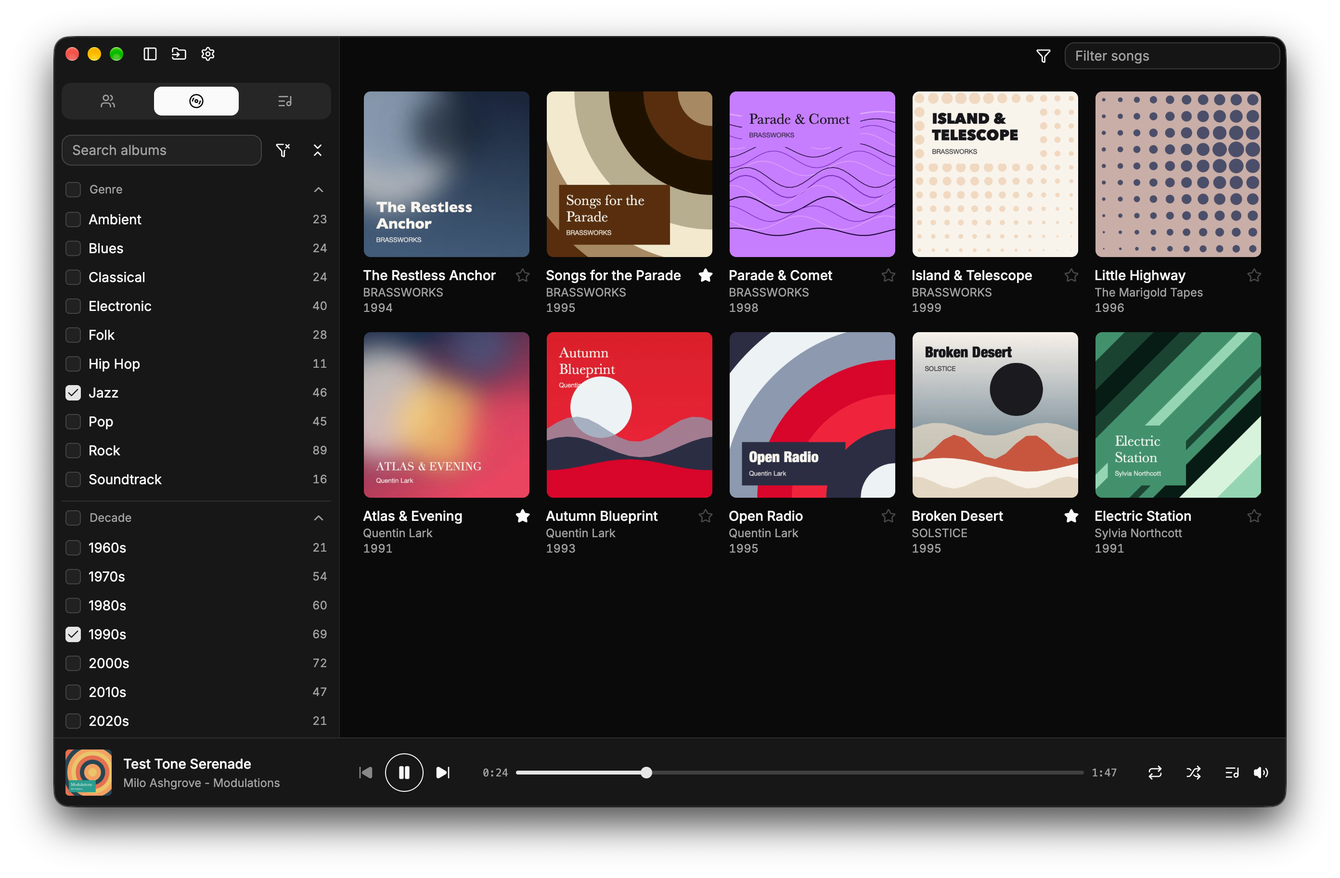
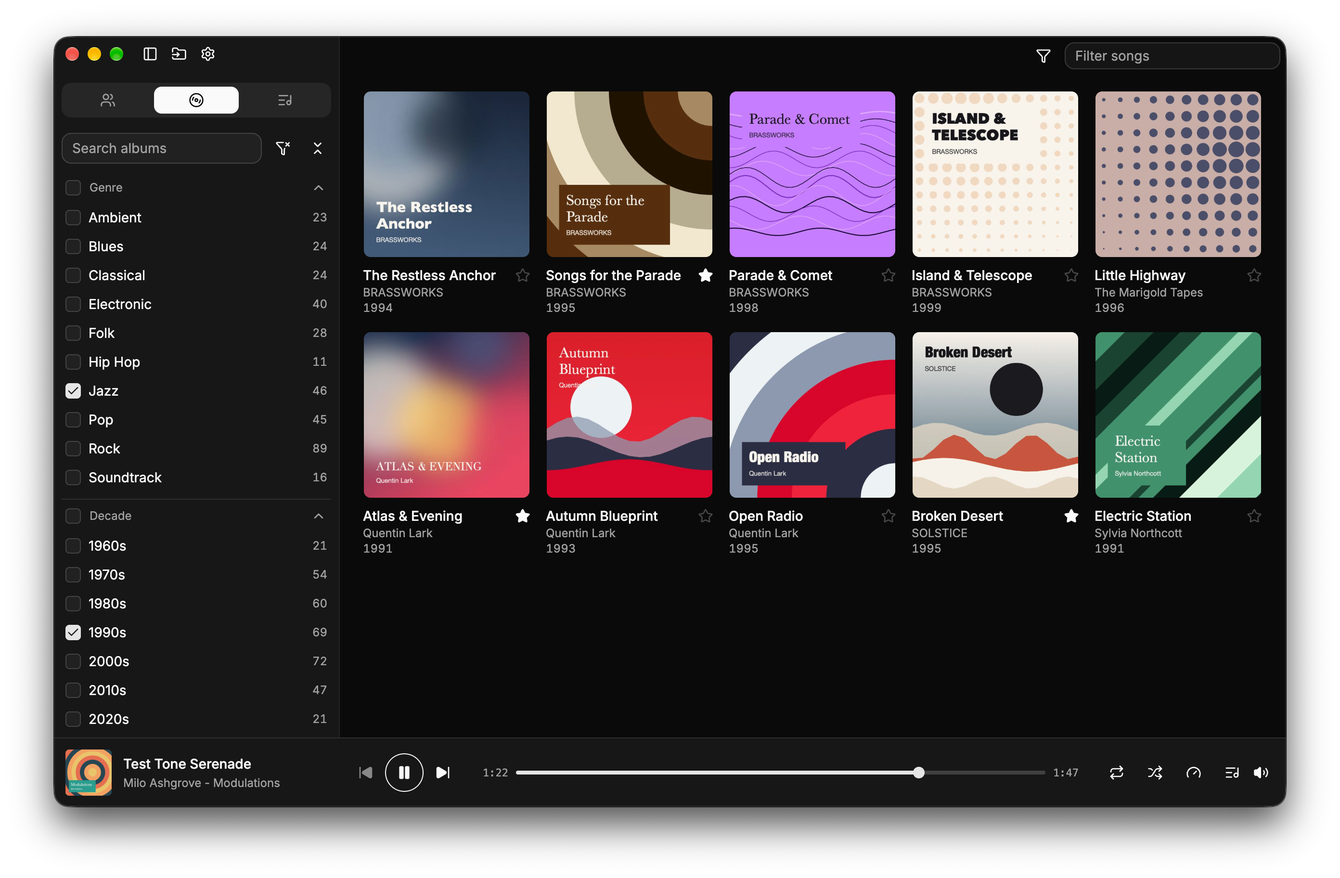
feat: 公式サイトの機能一覧を縦レイアウトにし、ヘッダーの hover をアプリに揃え、全シーンをダーク / ライトで撮り直す
- HomePage の機能一覧を「見出し、説明文、ダークとライトのスクリーンショットの横並び」の縦レイアウトにし、theme の項目を settings に統合
- global.css の glow-lamp を glow-ring に置き換え、ヘッダーの hover を枠線 + glow と角丸矩形の塗りにする
- 「Play your way」の本文と alt に再生速度を追加し、全 7 シーンをダーク / ライトの 14 枚で撮影 (player は速度の Popover を開いた構図)
- screenshots.manifest.json に player-light の crop を追加し、SCENES を <screen> と <screen>-light に拡張
- web の仕様書 (README / scope / pages / theme / top-page / screenshots) を更新

diff --git a/web/src/i18n/ja.ts b/web/src/i18n/ja.ts
@@ -52,19 +52,17 @@ export const ja: Dictionary = {
     "Details タブでタイトル、アーティスト、アルバム、ジャンル、年の入力欄を表示した曲情報ダイアログ",
   "home.feature.player.title": "好きなように再生する",
   "home.feature.player.body":
-    "再生キューに曲を並べ、シャッフルし、アルバムや 1 曲をリピートし、OS のメディア キーから操作できます。対応形式は mp3、flac、m4a / mp4、ogg / opus、wav、aiff、wma、ape です。",
+    "再生キューに曲を並べ、シャッフルし、アルバムや 1 曲をリピートし、音程を保ったまま再生をゆっくりにも速くにもできます。再生、一時停止、曲送りは OS のメディア キーからも行えます。対応形式は mp3、flac、m4a / mp4、ogg / opus、wav、aiff、wma、ape です。",
   "home.feature.player.alt":
-    "曲を再生中のプレーヤー バーと、次に再生する曲を並べたキューのポップオーバー",
-  "home.feature.theme.title": "ライトとダーク",
-  "home.feature.theme.body":
-    "ダークとライトのテーマを用意しています。OS の設定に追従させることも、好きなほうに固定することもできます。",
-  "home.feature.theme.alt":
-    "ライト テーマの Parade の Artists ビュー。Milo Ashgrove のアルバムを表示している",
-  "home.feature.language.title": "英語と日本語",
-  "home.feature.language.body":
-    "設定ページで English / 日本語 / System から言語を選べます。テーマも同じ設定ページで切り替えられます。",
-  "home.feature.language.alt":
-    "Theme を Dark、Language を English に設定した Settings ページ",
+    "曲を再生中のプレーヤー バーと、開いた再生速度のポップオーバー。速度のプリセット、スライダー、「ピッチを維持」のチェックが見える",
+  "home.feature.settings.title": "言語とテーマを選ぶ",
+  "home.feature.settings.body":
+    "設定ダイアログで English / 日本語 / System から言語を選べます。ダークとライトのテーマも同じ設定ダイアログで切り替えるか、OS の設定に追従させられます。",
+  "home.feature.settings.alt":
+    "Language を English にし、テーマを選んだ Settings ダイアログ",
+  "home.screenshot.dark": "ダーク",
+  "home.screenshot.light": "ライト",
+  "home.screenshot.alt": "{alt} ({theme} テーマ)",
   "home.cta.title": "Parade を入手する",
   "home.cta.body":
     "macOS / Windows / Linux 向けに、無料でオープンソースで提供しています。",

diff --git a/web/src/i18n/en.ts b/web/src/i18n/en.ts
@@ -54,19 +54,17 @@ export const en = {
     "Song info dialog with the Details tab showing the editable title, artist, album, genre and year fields",
   "home.feature.player.title": "Play your way",
   "home.feature.player.body":
-    "Queue songs up, shuffle them, repeat an album or a single song, and control playback from the media keys of your OS. Parade plays mp3, flac, m4a / mp4, ogg / opus, wav, aiff, wma and ape.",
+    "Queue songs up, shuffle them, repeat an album or a single song, and slow down or speed up playback while the pitch stays put. Play, pause and skip from the media keys of your OS. Parade plays mp3, flac, m4a / mp4, ogg / opus, wav, aiff, wma and ape.",
   "home.feature.player.alt":
-    "Player bar with a song playing and the queue popover listing the upcoming songs",
-  "home.feature.theme.title": "Light and dark",
-  "home.feature.theme.body":
-    "A dark and a light theme, following your OS setting or fixed to the one you prefer.",
-  "home.feature.theme.alt":
-    "Artists view of Parade in the light theme, showing the albums of Milo Ashgrove",
-  "home.feature.language.title": "English and Japanese",
-  "home.feature.language.body":
-    "Choose English, Japanese or your system language on the settings page. The theme is switched there as well.",
-  "home.feature.language.alt":
-    "Settings page with the theme set to Dark and the language set to English",
+    "Player bar with a song playing and the playback speed popover open, showing the speed presets, the slider and the Keep pitch checkbox",
+  "home.feature.settings.title": "Choose your language and theme",
+  "home.feature.settings.body":
+    "Pick English, Japanese or your system language in the settings dialog, and switch between the dark and light themes there as well, or follow your OS.",
+  "home.feature.settings.alt":
+    "Settings dialog with the language set to English and the theme selected",
+  "home.screenshot.dark": "Dark",
+  "home.screenshot.light": "Light",
+  "home.screenshot.alt": "{alt} ({theme} theme)",
   "home.cta.title": "Get Parade",
   "home.cta.body": "Free and open source, for macOS, Windows and Linux.",
   "home.cta.button": "Go to downloads",

diff --git a/web/src/styles/global.css b/web/src/styles/global.css
@@ -57,23 +57,23 @@
 }
 
 /*
- * Lamp glow: the hovered element lights up like a lamp, a mid bloom plus a
- * wide faint halo. Same values as the lamp glow the app's icon buttons had
- * up to v1.4.0 (the app since moved to a tint or a circle border; the site
- * keeps the lamp). Apply as
- * `hover:glow-lamp` together with `transition-glow`.
+ * Ring glow: a transparent border takes the foreground colour and glows.
+ * Same values as the hover of the app's IconButton `ring` variant (the
+ * player bar buttons). The element keeps `border border-transparent` so
+ * its size does not change on hover. Apply as `hover:glow-ring` together
+ * with `transition-glow` (docs/specs/web/architecture/theme.md).
  */
-@utility glow-lamp {
-  filter: drop-shadow(0 0 5px var(--foreground))
-    drop-shadow(
-      0 0 12px color-mix(in oklch, var(--foreground) 60%, transparent)
-    );
+@utility glow-ring {
+  border-color: var(--foreground);
+  box-shadow: 0 0 5px 1px
+    color-mix(in oklch, var(--foreground) 60%, transparent);
 }
 
 /*
  * Border glow: the border of an outlined element lights up. Same values as
- * the app's CircleIconButton. Apply as `hover:glow-border` together with
- * `transition-glow`.
+ * the app's CircleIconButton, whose border is always visible (hence the
+ * inner 1px line on top of the ring glow). Apply as `hover:glow-border`
+ * together with `transition-glow`.
  */
 @utility glow-border {
   border-color: var(--foreground);
@@ -101,12 +101,13 @@
 }
 
 /*
- * Transition for the glow utilities. Switched off under reduced motion; the
- * glow itself stays.
+ * Transition for the glow utilities (border and shadow only: the tint fill
+ * of `hover:bg-foreground/10` switches at once, as in the app, because a
+ * fading fill flickers). Switched off under reduced motion; the glow itself
+ * stays.
  */
 @utility transition-glow {
-  transition-property:
-    filter, color, background-color, border-color, box-shadow;
+  transition-property: border-color, box-shadow;
   transition-duration: 200ms;
   transition-timing-function: ease;
 

diff --git a/web/scripts/screenshotManifest.test.ts b/web/scripts/screenshotManifest.test.ts
@@ -1,5 +1,10 @@
 import { expect, it } from "vitest";
-import { fitsInside, isScene, parseManifest } from "./screenshotManifest";
+import {
+  fitsInside,
+  isScene,
+  parseManifest,
+  SCENES,
+} from "./screenshotManifest";
 
 it("parses mask and crop rectangles per scene", () => {
   const manifest = parseManifest(
@@ -36,6 +41,21 @@ it("rejects a scene name outside the spec", () => {
   expect(() => parseManifest(JSON.stringify({ hero: {} }))).toThrow();
   expect(isScene("artists")).toBe(true);
   expect(isScene("Artists")).toBe(false);
+});
+
+it("accepts every screen in the dark and the light theme, nothing else", () => {
+  expect(SCENES).toHaveLength(14);
+  expect(isScene("artists-light")).toBe(true);
+  expect(isScene("player-light")).toBe(true);
+  expect(isScene("artists-dark")).toBe(false);
+  expect(isScene("light-artists")).toBe(false);
+  expect(isScene("artists_light")).toBe(false);
+  const manifest = parseManifest(
+    JSON.stringify({
+      "player-light": { crop: { x: 0, y: 784, width: 2784, height: 1008 } },
+    }),
+  );
+  expect(manifest["player-light"]?.crop?.height).toBe(1008);
 });
 
 it("checks that a rectangle fits inside the image", () => {

diff --git a/web/scripts/screenshotManifest.ts b/web/scripts/screenshotManifest.ts
@@ -1,13 +1,8 @@
 import { z } from "zod";
 
-/**
- * The scenes the top page uses, in the order of
- * docs/specs/web/features/screenshots.md. Captures with other names are
- * refused so a stray file never lands in the committed assets.
- */
-export const SCENES = [
+/** The screens of docs/specs/web/features/screenshots.md, in its order. */
+const SCREENS = [
   "artists",
-  "artists-light",
   "albums",
   "playlists",
   "favorites",
@@ -15,6 +10,16 @@ export const SCENES = [
   "player",
   "settings",
 ] as const;
+
+/**
+ * The scenes the top page uses: every screen in the dark theme
+ * (`<screen>`) and in the light theme (`<screen>-light`). Captures with
+ * other names are refused so a stray file never lands in the committed
+ * assets.
+ */
+export const SCENES = SCREENS.flatMap(
+  (screen) => [screen, `${screen}-light`] as const,
+);
 
 export type Scene = (typeof SCENES)[number];
 

diff --git a/docs/specs/web/features/top-page.md b/docs/specs/web/features/top-page.md
@@ -16,18 +16,21 @@
 
 ### 2. 主な機能
 
-機能ごとに「見出し、2 - 3 文の説明、スクリーンショット」を横並び (デスクトップ) / 縦並び (モバイル) で交互に配置します。項目は現在のバージョン (v1.6) の機能から選びます。
+機能ごとに「見出し、2 - 3 文の説明、同じ画面のダークとライトのスクリーンショット」を縦に並べます (2026-11-03 改訂。v1.6 までは説明文と 1 枚のスクリーンショットを 2 カラムで左右交互に置いていた。[公式サイトの機能一覧のレイアウト](../../v1.7/features/web-feature-layout.md))。項目は現在のバージョン (v1.7) の機能から選びます。
 
-| 機能 | 説明の要点 | スクリーンショット |
+- 機能 1 件は `li` (`flex flex-col gap-4`) で、`h3`、`p` (`max-w-prose`)、画像の 2 カラム グリッド (`grid gap-4 md:grid-cols-2 md:gap-6`) の順。機能と機能の間隔は `ul` の `gap-14`
+- 画像は `figure` で包み、`figcaption` にテーマ名 ("Dark" / "Light"、`home.screenshot.dark` / `home.screenshot.light`) を `text-xs text-muted-foreground` で中央寄せに添える。ダークを左、ライトを右に固定し、`md` 未満ではダーク、ライトの順に縦に並ぶ
+- 画像の `alt` は機能の alt にテーマ名を添えた `home.screenshot.alt` ("{alt} ({theme} theme)") で、スクリーン リーダーにも 2 枚がテーマ違いであることが伝わる
+
+| 機能 (キー) | 説明の要点 | スクリーンショット |
 | --- | --- | --- |
-| Browse by artist | 頭文字のグリッドからアーティストを選び、アルバムと曲を眺めながら再生する。アーティスト画像とアートワークを活かした一覧 | `artists` |
-| Filter your albums | ジャンル、年代、テキストでアルバムを絞り込むサイドバー。ジャケットを並べて眺められる | `albums` |
-| Playlists and smart playlists | 手で並べる通常のプレイリストと、条件で自動更新されるスマート プレイリスト。プレイリストに画像を付けられる (v1.6)。カラムの表示、幅、並び順、ソートを変えられるテーブル (v1.3) | `playlists` |
-| Keep your favorites close | 曲とアルバムに Star を付け、どのビューでもひと目で分かる。フィルター メニューの「お気に入りのみ表示」でお気に入りだけに絞り込める (v1.4) | `favorites` |
-| Edit and complete metadata | 曲情報ダイアログでタイトル、アーティスト、アートワークなどを編集し、ファイルへ書き戻す (v1.1)。複数の曲をまとめて編集できる。MusicBrainz から不足している情報とアートワークを取得して補完する (v1.2) | `music-info` |
-| Play your way | 再生キュー、シャッフル、リピート (アルバム全体と 1 曲。v1.5)、OS のメディア キー対応 (MediaSession)。対応形式: mp3, flac, m4a/mp4, ogg/opus, wav, aiff, wma, ape | `player` (プレーヤー バーとキュー ポップオーバー。リピートを `all` にして点灯した状態) |
-| Light and dark | OS に追従するダーク / ライト テーマ | `artists-light` |
-| English and Japanese | 設定ダイアログで言語を English / 日本語 / System から選べる。テーマも同じ設定ダイアログで切り替える。スクリーンショットは英語 UI だけなので、日本語対応はここで明記する | `settings` |
+| Browse by artist (`artists`) | 頭文字のグリッドからアーティストを選び、アルバムと曲を眺めながら再生する。アーティスト画像とアートワークを活かした一覧 | `artists` / `artists-light` |
+| Filter your albums (`albums`) | ジャンル、年代、テキストでアルバムを絞り込むサイドバー。ジャケットを並べて眺められる | `albums` / `albums-light` |
+| Playlists and smart playlists (`playlists`) | 手で並べる通常のプレイリストと、条件で自動更新されるスマート プレイリスト。プレイリストに画像を付けられる (v1.6)。カラムの表示、幅、並び順、ソートを変えられるテーブル (v1.3) | `playlists` / `playlists-light` |
+| Keep your favorites close (`favorites`) | 曲とアルバムに Star を付け、どのビューでもひと目で分かる。フィルター メニューの「お気に入りのみ表示」でお気に入りだけに絞り込める (v1.4) | `favorites` / `favorites-light` |
+| Edit and complete metadata (`metadata`) | 曲情報ダイアログでタイトル、アーティスト、アートワークなどを編集し、ファイルへ書き戻す (v1.1)。複数の曲をまとめて編集できる。MusicBrainz から不足している情報とアートワークを取得して補完する (v1.2) | `music-info` / `music-info-light` |
+| Play your way (`player`) | 再生キュー、シャッフル、リピート (アルバム全体と 1 曲。v1.5)、再生速度とピッチ維持 (v1.7)、OS のメディア キー対応 (MediaSession)。対応形式: mp3, flac, m4a/mp4, ogg/opus, wav, aiff, wma, ape | `player` / `player-light` (プレーヤー バーと再生速度のポップオーバー。リピートを `all`、速度を 1.25x にして点灯した状態) |
+| Choose your language and theme (`settings`) | 設定ダイアログで言語を English / 日本語 / System から選べる。ダークとライトのテーマも同じ設定ダイアログで切り替えるか OS に追従させる。スクリーンショットは英語 UI だけなので、日本語対応はここで明記する。v1.6 までの「Light and dark」(`artists-light` 1 枚) の項目は、全項目をダークとライトで見せるようになったため v1.7 で統合した | `settings` / `settings-light` |
 
 - MusicBrainz 取得の画面はスクリーンショットを撮らず、文章だけで説明する。デモ用データのアーティストは架空のため MusicBrainz に一致せず、結果の画面を再現できない ([スクリーンショット](screenshots.md))。説明文で MusicBrainz と Cover Art Archive の名前を出し、フッターのクレジットと対応させる ([ページ構成](pages.md))
 - 対応プラットフォームの一覧と対応形式は、ヒーローとこのセクションに分けて置く
@@ -47,5 +50,6 @@
 ## 画像
 
 - スクリーンショットは `web/src/assets/screenshots/` から `<Picture>` で読み込み、`widths` を `[640, 1280, 2560]`、形式を `avif` と `webp` にする
-- ヒーロー以外は `loading="lazy"`
-- `alt` は辞書から与え、画面の内容 (「Artists view showing albums of Milo Ashgrove」) を書く
+- 主な機能の画像は 1 機能につきダークとライトの 2 枚 (`<scene>.png` / `<scene>-light.png`、計 14 枚)。`sizes` は画像 1 枚がコンテンツ幅の半分 (2 カラムの片側) になる前提のまま。ヒーローのスクリーンショットはダークの 1 枚のまま (サイトのテーマに追従して切り替える案は、両方の画像を eager で読むことになるため候補として保留)
+- ヒーロー以外は `loading="lazy"`。1 ページの画像は 15 枚になるが、初期表示で読むのはヒーローの 1 枚だけ
+- `alt` は辞書から与え、画面の内容 (「Artists view showing albums of Milo Ashgrove」) を書く。機能の画像にはテーマ名を添える

diff --git a/docs/specs/web/architecture/theme.md b/docs/specs/web/architecture/theme.md
@@ -1,6 +1,6 @@
 # テーマとスタイル
 
-アプリの配色を踏襲したダーク / ライト テーマと、hover 時の glow 効果の実装方針です。
+アプリの配色を踏襲したダーク / ライト テーマと、hover 時の glow 効果 (枠線 + glow と角丸矩形の塗り) の実装方針です。
 
 ## 配色トークンの共有
 
@@ -28,17 +28,18 @@
 
 ## glow 効果
 
-アプリの hover 効果をそのまま CSS に写します。アプリには 2 種類あり、サイトでも使い分けます。
+アプリの hover 効果をそのまま CSS に写します。アプリには 3 種類あり、サイトでも使い分けます (2026-11-03 改訂。v1.4.0 までのアプリの lamp glow を写していた `glow-lamp` は v1.7 で廃止し、アプリの現在の ring / tint に揃えた。[公式サイトのヘッダー](../../v1.7/features/web-header.md))。
 
 | 種類 | アプリでの用途 | サイトでの用途 | CSS |
 | --- | --- | --- | --- |
-| Lamp glow (v1.4.0 までの `GlowIconButton`。アプリは v1.4.1 で tint / 円の border へ移行したが、サイトは lamp のまま) | プレーヤー バーとツールバーのアイコン ボタン (当時) | ヘッダーのアイコン ボタン (テーマ切り替え、GitHub リンク)、ナビゲーション リンク | `filter: drop-shadow(0 0 5px var(--foreground)) drop-shadow(0 0 12px color-mix(in oklch, var(--foreground) 60%, transparent))` を svg (またはテキスト) に適用。`transition: filter 200ms` |
-| Border glow (`CircleIconButton`、`Button` の outline / secondary) | 枠線つきのボタン、フォーム部品 | ダウンロード ボタン、カード | `border-color: var(--foreground)` と `box-shadow: 0 0 5px 1px color-mix(in oklch, var(--foreground) 60%, transparent)`。`transition: color, background-color, border-color, box-shadow 200ms` |
+| Ring (`IconButton` の `ring`) | プレーヤー バーのボタン、曲行のメニュー ボタン | ヘッダーのページ リンク (pill)、言語切り替え (pill)、テーマ切り替えと GitHub リンク (円)、日本語版の案内バナーの閉じるボタン (円) | 要素は常に `border border-transparent` を持ち、hover で `border-color: var(--foreground)` と `box-shadow: 0 0 5px 1px color-mix(in oklch, var(--foreground) 60%, transparent)` (`glow-ring`)。`transition: border-color, box-shadow 200ms` |
+| Tint (`IconButton` の `tint`) | サイドバーのツール ボタン、コンテンツ ツールバーのメニュー、一般のアイコン ボタン | ヘッダー左端のアイコンと製品名 | `hover:bg-foreground/10` の角丸矩形。transition は付けない (塗りの transition はちらつくため、アプリでも付けていない) |
+| Border glow (`CircleIconButton`、`Button` の outline / secondary) | 枠線つきのボタン、フォーム部品 | ダウンロード ボタン、カード | `border-color: var(--foreground)` と `box-shadow: 0 0 0 1px var(--foreground), 0 0 5px 1px color-mix(in oklch, var(--foreground) 60%, transparent)` (`glow-border`。枠線が常にあるため内側の 1px の線を含む)。`transition: border-color, box-shadow 200ms` |
 
-- `Button` の `default` variant (塗りつぶし) は `--primary` で光る: `box-shadow: 0 0 5px 1px color-mix(in oklch, var(--primary) 60%, transparent)`。ダウンロード ページの主ボタンに使う
-- ナビゲーション リンクの現在ページは、アプリのサイドバーの active タブと同じく塗りつぶし (`bg-foreground text-background`) で示し、hover の glow は付けたままにする
+- `Button` の `default` variant (塗りつぶし) は `--primary` で光る: `box-shadow: 0 0 5px 1px color-mix(in oklch, var(--primary) 60%, transparent)` (`glow-primary`)。ダウンロード ページの主ボタンに使う
+- ナビゲーション リンクの現在ページは、アプリのサイドバーの active タブと同じく塗りつぶし (`bg-foreground text-background`) で示し、hover では枠線が `foreground` になるため glow だけが足される
 - `prefers-reduced-motion: reduce` では transition を切る (glow 自体は残す)
-- Tailwind のユーティリティとして `@utility glow-lamp` / `@utility glow-border` を `global.css` に定義し、`.astro` 側では `hover:glow-lamp` のように使う
+- Tailwind のユーティリティとして `@utility glow-ring` / `@utility glow-border` / `@utility glow-primary` と `@utility transition-glow` (対象は `border-color, box-shadow`) を `global.css` に定義し、`.astro` 側では `hover:glow-ring` のように使う。`transition-glow` は ring の要素に付け、tint の要素には付けない
 
 ## その他の外観
 

diff --git a/docs/specs/web/README.md b/docs/specs/web/README.md
@@ -9,8 +9,8 @@ Parade の公式サイト (GitHub Pages) の仕様書です。アプリの機能
 - トップ ページでアプリの概要、主な機能、代表的な画面のスクリーンショットを見せる
 - ダウンロード ページで最新バージョンのイメージをプラットフォーム別に提示する。過去バージョンは GitHub Releases へ誘導する
 - 英語を既定とし、ヘッダーから日本語へ切り替えられる
-- 固定ヘッダー、コンテンツ、フッターの 3 領域で構成し、アプリの配色を踏襲したダーク / ライト テーマと hover 時の glow 効果を持つ。テーマと言語の切り替えはヘッダーの UI として常時表示する
-- スクリーンショットはデモ モード ([docs/demo](../../demo/README.md)) で macOS の英語 UI だけを撮影する。日本語対応は文章で明記する
+- 固定ヘッダー、コンテンツ、フッターの 3 領域で構成し、アプリの配色を踏襲したダーク / ライト テーマと、アプリと同じ hover (枠線 + glow と角丸矩形の塗り) を持つ。テーマと言語の切り替えはヘッダーの UI として常時表示する
+- スクリーンショットはデモ モード ([docs/demo](../../demo/README.md)) で macOS の英語 UI だけを撮影し、全シーンをダークとライトの 2 枚で見せる (v1.7)。日本語対応は文章で明記する
 - フッターにライセンス (MIT) と、利用サービスとして MusicBrainz / Cover Art Archive を併記する
 
 ## 決定事項
@@ -24,7 +24,7 @@ Parade の公式サイト (GitHub Pages) の仕様書です。アプリの機能
 | 言語 | 英語 (`/`) を既定、日本語 (`/ja/`) へ切り替え | [多言語対応](architecture/i18n.md) |
 | ページ | トップ、ダウンロード、404 の 3 ページ | [ページ構成](features/pages.md) |
 | 配色 | `src/renderer/App.css` のトークンを `web/` へコピー (アプリ側は分割しない) | [テーマとスタイル](architecture/theme.md) |
-| スクリーンショット | macOS、英語 UI、ダーク基調 (ライトは 1 枚) | [スクリーンショット](features/screenshots.md) |
+| スクリーンショット | macOS、英語 UI、全シーンをダーク / ライトの 2 枚 (v1.7、2026-11-03 改訂) | [スクリーンショット](features/screenshots.md) |
 
 ## 仕様書の構成
 

diff --git a/docs/specs/web/features/pages.md b/docs/specs/web/features/pages.md
@@ -35,9 +35,9 @@ URL はすべて `base` (`/parade`) の後ろに付きます。
 ### 固定ヘッダー
 
 - `position: sticky; top: 0` で上端に固定する。高さは 56px (アプリのツールバー 40px より一回り大きい)。背景は `--background` を少し透かし、`backdrop-filter: blur` を掛ける
-- 左: アプリ アイコン (`build/icon.svg` を `public/` へコピーして使う) と製品名。トップ ページへのリンク
-- 中央: ページ リンク (Home / Download)。現在のページは塗りつぶしで示す。hover は lamp glow ([テーマとスタイル](../architecture/theme.md))
-- 右: 言語切り替え (「日本語」/「English」のテキスト リンク)、テーマ切り替え (アイコン ボタン)、GitHub リポジトリーへのリンク (アイコン ボタン)
+- 左: アプリ アイコン (`build/icon.svg` を `public/` へコピーして使う) と製品名。トップ ページへのリンク。hover は角丸矩形の塗り (tint。アプリのサイドバーのツール ボタンと同じ、2026-11-03 改訂)
+- 中央: ページ リンク (Home / Download)。現在のページは塗りつぶしで示す。hover は枠線 + glow (ring) で、現在のページでも文字色は変わらず glow だけが足される ([テーマとスタイル](../architecture/theme.md))
+- 右: 言語切り替え (「日本語」/「English」のテキスト リンク)、テーマ切り替え (アイコン ボタン)、GitHub リポジトリーへのリンク (アイコン ボタン)。hover はいずれも枠線 + glow (pill と円)
 - **テーマと言語の切り替えはヘッダーの UI として常時表示する。** どの画面幅でもメニューやドロワーに畳まず、フッターや設定ページへ逃がさない。ページをスクロールしてもヘッダーが固定なので常に手が届く
 - モバイル (幅 640px 未満): 製品名を省略してアイコンだけにし、ページ リンクはそのまま横に並べる (2 項目なのでハンバーガー メニューは作らない)。言語切り替えとテーマ切り替えもそのまま残す。幅が足りない場合は GitHub リンクを先に省き、言語の表記を「JA」/「EN」に短縮してでも 2 つの切り替えは残す
 

diff --git a/docs/specs/web/scope.md b/docs/specs/web/scope.md
@@ -20,7 +20,7 @@
 
 - 固定ヘッダー (ページ リンク、言語切り替え、テーマ切り替え、GitHub リンク)、コンテンツ、フッターの 3 領域 ([ページ構成](features/pages.md))。言語とテーマの切り替えはどの画面幅でもヘッダーに常時表示する
 - アプリの配色トークンをコピーしたダーク / ライト テーマ。既定は OS の設定に従い、切り替えはブラウザーに保存する ([テーマとスタイル](architecture/theme.md))
-- メニューとボタンの hover にアプリと同じ glow 効果
+- メニューとボタンの hover はアプリの現在の見た目に揃える: ページ リンクとアイコン ボタンは枠線 + glow (アプリのプレーヤー バーのボタン)、左端のアイコンと製品名は角丸矩形の塗り (アプリのサイドバーのツール ボタン)。v1.7 で lamp glow から改めた ([テーマとスタイル](architecture/theme.md))
 
 ### 多言語
 
